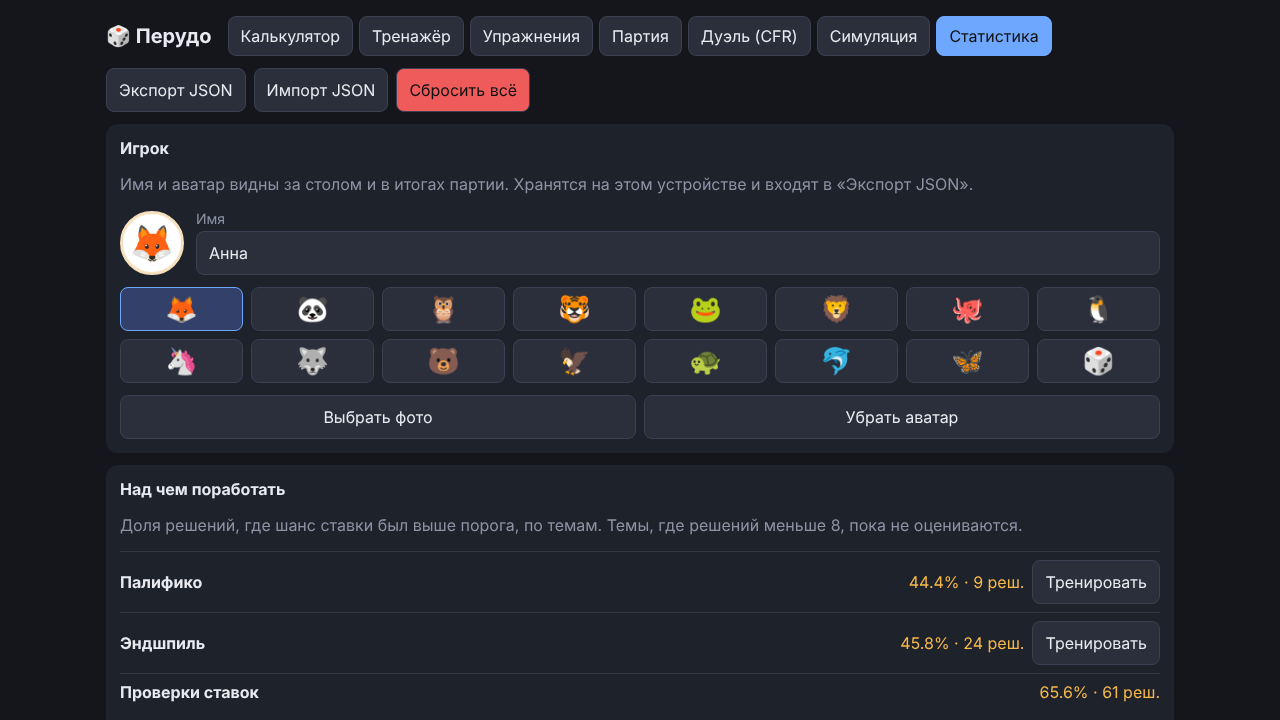
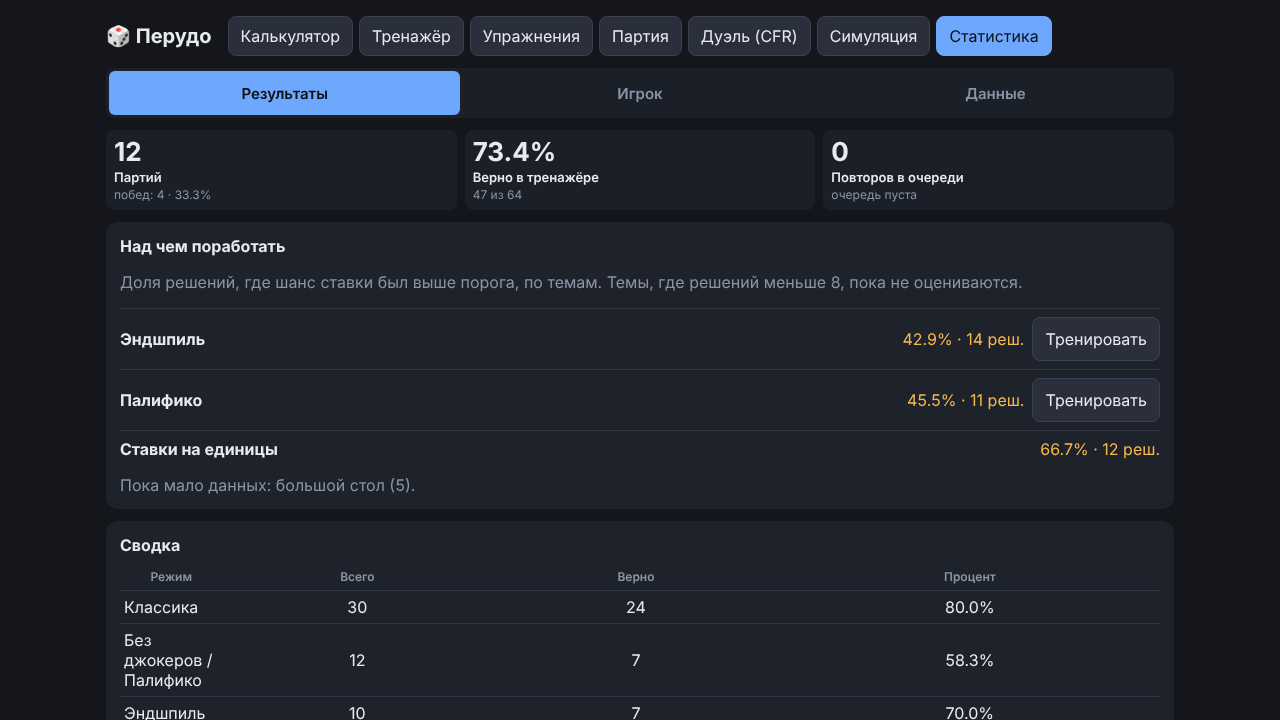
Документация и версия 2.3.0
README: подвкладки статистики, копия на Яндекс Диске (что и куда
пишется, гость или Яндекс, другое устройство, как удалить), проверка
ставок в тренажёре, учёт попыток в упражнениях, «Разбор» с двумя
числами, эмуляторы; дерево файлов и новые скриншоты статистики.
Тексты про выбор «гость / Яндекс» ведут во вкладку «Данные».
Тест статистики приведён к правилу «одна задача — одна запись».
Версия 2.3.0.

diff --git a/src/ui/cloud_card.js b/src/ui/cloud_card.js
@@ -309,7 +309,7 @@ async function copyDiag() {
 async function onAction(act) {
   if (act === 'later') {
     closeDialog();
-    say('Выбор можно сделать позже в «Статистике», блок «Игрок».');
+    say('Выбор можно сделать позже: «Статистика» → «Данные».');
     renderCloudCard();
     return;
   }
@@ -364,7 +364,7 @@ export function setupCloudCard({ downloadBackup } = {}) {
       setAccount('guest');
       renderWelcome();
       renderCloudCard();
-      toast('Вы играете как гость. Войти через Яндекс можно в «Статистике», блок «Игрок».', 'muted');
+      toast('Вы играете как гость. Войти через Яндекс можно в «Статистике», вкладка «Данные».', 'muted');
     } else if (e.target.closest('#clLogout')) {
       if (!confirm('Выйти из облака? Данные на этом устройстве и файл на Диске останутся.')) return;
       sync.logout();

diff --git a/tests/e2e/stats.spec.js b/tests/e2e/stats.spec.js
@@ -19,6 +19,8 @@ async function answerTrainer(page) {
 
 async function answerDrill(page) {
   await openTab(page, 'drill');
+  // после проверки кнопка недоступна до «Новое»: одна задача — одна запись
+  if (await page.locator('#dACheck').isDisabled()) await page.click('#dNew');
   await page.fill('#dA1', '5');
   await page.fill('#dA2', '5');
   await page.click('#dACheck');
@@ -57,7 +59,7 @@ test.describe('Статистика: разделы не затирают дру
     await openTab(page, 'train');
     await page.click('#tNext');
     await page.click('#tDudo');
-    await answerDrill(page);   // «Проверить» повторно: новый вопрос не нужен, ответ считается
+    await answerDrill(page);   // новая задача («Новое» нажимается внутри) — снова одна запись
 
     const p = await profile(page);
     expect(p.n).toBe(2);

diff --git a/index.html b/index.html
@@ -485,7 +485,7 @@
     <dialog id="clWelcome" class="cloud-dialog cloud-welcome" aria-labelledby="clWelcomeTitle">
       <div class="cloud-dialog-body">
         <h2 id="clWelcomeTitle">Как вы будете играть?</h2>
-        <p class="muted">Выбор можно изменить позже: «Статистика», блок «Игрок».</p>
+        <p class="muted">Выбор можно изменить позже: «Статистика» → «Данные».</p>
         <div class="cloud-choice">
           <div>
             <button type="button" id="clWelcomeLogin" class="btn-primary" autofocus>Войти через Яндекс</button>

diff --git a/README.md b/README.md
@@ -66,7 +66,7 @@
 | [**Партия**](#партия) | Полноценная игра против 1–5 компьютерных игроков с подсказками и разбором ходов |
 | [**Дуэль (CFR)**](#дуэль-cfr) | Игра один на один (по одному кубику) против бота с близкой к оптимальной стратегией. Стратегия рассчитывается в вашем браузере за секунды |
 | [**Симуляция**](#симуляция) | Проверка формул: компьютер бросает кубики тысячи раз и показывает, как часто ставка оказывается верной |
-| [**Статистика**](#статистика-и-ваши-данные) | Сколько решений вы приняли верно, сколько партий выиграли. Здесь же можно сохранить данные в файл или сбросить всё |
+| [**Статистика**](#статистика-и-ваши-данные) | Итоги, слабые темы и список партий; имя и аватар игрока; сохранность данных: копия на Яндекс Диске и в файле |
 
 ## Калькулятор
 
@@ -101,8 +101,10 @@
 
 1. Нажмите **«Новая ситуация»**.
 2. Посмотрите свои кубики и ставку соперника.
-3. Нажмите **«Не верю!»** или введите свою ставку и нажмите **«Ставлю»**.
+3. Нажмите **«Не верю!»** или выберите свою ставку и нажмите **«Ставлю»**. Поля ставки сразу заполнены минимальной допустимой ставкой.
 4. Прочитайте оценку: шанс, что ставка верна, и порог. Ниже — **варианты хода по шансу ставки**: «Не верю» (с каким шансом проверка сработает), минимальное повышение и самая сильная безопасная ставка; ваш выбор отмечен. Это сравнение по шансам, а не оценка выигрыша: оно не говорит, какой ход «лучший», а показывает цену каждого.
+
+**Ставка должна быть допустимой по правилам.** Если ставка не проходит (например, `6×4` после `4×1`: на другую цифру после единиц нужно не меньше `4×2 + 1 = 9`), приложение объясняет, какая ставка минимальна, не оценивает её, и в статистику она не попадает. В режиме «Без джокеров / Палифико» можно повышать только количество на ту же цифру. Если повысить уже нельзя, остаётся «Не верю!».
 
 **Режимы** выбираются по кнопке ⚙ вверху вкладки; рядом настраивается **порог** (по умолчанию 0,5):
 
@@ -136,7 +138,9 @@
 - **Оценка в уме.** Сколько кубиков с нужной цифрой ожидать на столе (число с дробью) и какая ставка «безопасна» (шанс не ниже 50%). Ожидание считается как *свои + чужие × шанс*, где шанс = 1/3 для обычной цифры и 1/6 для единиц. Безопасная ставка — ожидание, округлённое к ближайшему целому (ровно посередине — вниз): для 0–60 чужих кубиков это совпадает с точным расчётом, один и тот же приём работает и на большом, и на малом столе. В упражнении есть свёрнутая памятка «Как прикинуть в уме» с примером, а после ответа — разбор шагами с числами задачи.
 - **Правило единиц.** Какое минимальное количество нужно назвать при переходе на единицы (⌈q/2⌉) и обратно (2q + 1).
 
-Кнопка **«Новое»** выдаёт другой вопрос. Допуск при проверке ±1: это тренировка прикидки в уме, а не точного счёта.
+Кнопка **«Новое»** выдаёт другой вопрос. Допуск при проверке ±1: это тренировка прикидки в уме, а не точного счёта. Если ответ выше безопасного, он принимается по допуску, но разбор добавляет строку про шанс («принята по допуску, но шанс 38% — меньше 50%; безопасная — 6 (61%)»). Бывает, что безопасной ставки нет (мало чужих кубиков, ставка на единицы): тогда правильный ответ 0, и разбор так и говорит.
+
+**Что считается попыткой.** Одна задача — одна запись в статистике. Пустой, нечисловой или дробный ответ (где нужно целое число) не засчитывается: приложение просит ввести ответ. После проверки кнопка «Проверить» недоступна до нажатия «Новое».
 
 ![Упражнения](docs/img/drill-desktop.png)
 
@@ -166,6 +170,12 @@
 ![Итог партии: ключевые моменты](docs/img/key-moments-desktop.png)
 
 ![Итог партии на телефоне](docs/img/key-moments-phone.png)
+
+### Разбор ваших ходов
+
+На вкладке «Разбор» каждый ваш ход получает оценку по шансу ставки по вашим кубикам: чужие кубики считаются случайными. Порог — 50%: от 50% «Надёжная ставка», от 35% «Рискованная», ниже «Слабая».
+
+Если до вас в этом раунде называли ту же цифру, рядом показан **второй шанс — с учётом ставок за столом**: игрок, назвавший цифру, с большей вероятностью держит её на руках (доверие к ставке 0,2; значение зафиксировано в коде, `TABLE_TRUST`). Для первой ставки раунда и для цифр, которых никто не называл, числа совпадают, и показано одно. Ставка, которая слаба по вашим кубикам, но с учётом стола имеет шанс не ниже 35%, получает не красный крестик, а оценку «Рискованная ставка» с пояснением «соперники подтверждают цифру». Пороги 35% и 50% при этом не меняются, оценка «Не верю» считается по вашим кубикам.
 
 ### Настройки партии
 
@@ -277,30 +287,51 @@
 
 ## Статистика и ваши данные
 
-Вкладка **«Статистика»** собирает ваши результаты:
+Вкладка **«Статистика»** разделена на три части: **«Результаты»**, **«Игрок»** и **«Данные»**. Выбранная часть запоминается до закрытия страницы; переключаются мышью, касанием и стрелками ← →.
 
-- **сводка тренажёра:** сколько решений верно из скольких и сколько ситуаций ждёт повтора, с разбивкой по режимам;
-- **«Игрок»:** имя (до 20 символов) и аватар: эмодзи на выбор или своё фото (оно обрезается до квадрата и сжимается до нескольких килобайт прямо в браузере, на сервер не уходит). Имя и аватар видны за столом и в итогах партии вместо «Вы», меняются и посреди партии, входят в «Экспорт JSON»;
+**Результаты** (открываются по умолчанию):
+
+- **итоги крупно:** сколько партий сыграно (и побед), доля верных решений в тренажёре (сколько верно из скольких) и сколько ситуаций ждёт повтора. Пока данных мало, вместо процента стоит «мало данных»: процент по режиму считается от 8 решений, по партиям — от 5;
 - **«Над чем поработать»:** до трёх тем, где доля решений с шансом ставки выше порога самая низкая (эндшпиль, последний кубик, Палифико, единицы, большой стол, проверки, повышения). Рядом число решений; темы, где их меньше 8, пока не оцениваются и перечислены отдельно. У тем с подходящим режимом есть кнопка **«Тренировать»**: открывает тренажёр в этом режиме;
-- **партии:** сколько сыграно и выиграно, список последних партий (хранятся последние 200);
-- **«Экспорт JSON»** и **«Импорт JSON»** — полная копия данных и её восстановление (см. ниже);
-- **«Сбросить всё»** — стирает статистику, очередь повторов, статистику дуэли, память ботов и профиль игрока.
+- **сводка по режимам тренажёра** и **список партий**: одна строка на партию («19.10 · победа · 4 игрока · 19 раундов · 15 решений»), показаны последние 10, остальные по кнопке **«Показать все»** (всего хранится 200);
+- если играть ещё не начинали, вместо таблиц с нулями — подсказка и кнопки «Сыграть партию» и «Открыть тренажёр».
 
-![Статистика](docs/img/stats-desktop.png)
+**Игрок:** имя (до 20 символов) и аватар: эмодзи на выбор или своё фото (оно обрезается до квадрата и сжимается до нескольких килобайт прямо в браузере, на сервер не уходит). Выбор аватара свёрнут: видны имя и текущий аватар, сетка открывается по кнопке «Изменить». Имя и аватар видны за столом и в итогах партии вместо «Вы», меняются и посреди партии, входят в «Экспорт JSON».
+
+**Данные:** всё про сохранность — блок «Копия на Яндекс Диске», «Копия в файле» (экспорт и импорт JSON, см. ниже) и подсказка про защиту от автоочистки браузера. В самом низу, отдельно, стоит **«Сбросить всё»**: стирает статистику, очередь повторов, статистику дуэли, память ботов и профиль игрока (с подтверждением).
+
+![Статистика: результаты](docs/img/stats-desktop.png)
 
 ![Статистика на телефоне](docs/img/stats-phone.png)
 
+![Статистика: данные](docs/img/stats-data-desktop.png)
+
 *На скриншотах демонстрационные данные.*
+
+### Копия на Яндекс Диске
+
+При первом запуске приложение спрашивает, как вы будете играть:
+
+- **«Войти через Яндекс»:** копия ваших данных хранится на вашем Яндекс Диске. Она переживёт очистку браузера и поможет перенести данные на другое устройство;
+- **«Играть как гость»:** данные хранятся только в этом браузере, как раньше. Выбор можно сменить позже: «Статистика» → «Данные».
+
+Как это устроено:
+
+- **Что и куда пишется.** Один файл `perudo-backup.json` в личной папке приложения на вашем Диске: та же копия, что и «Экспорт JSON». Приложение получает право только на эту папку; остальные файлы Диска оно не видит. Данные не уходят ни на какой другой сервер: запросы идут из вашего браузера напрямую на Яндекс. Токен доступа хранится только на этом устройстве и в файл копии не входит.
+- **Когда пишется.** После каждой законченной партии (не чаще раза в 30 секунд) и по кнопке **«Сохранить сейчас»**.
+- **Другое устройство.** После входа с другого устройства приложение сравнивает версии. Если на этом устройстве ничего не менялось, а в облаке копия новее, данные обновляются сами. Если версии разошлись, вы выбираете, какую оставить. Данные не теряются без вашего подтверждения.
+- **Если связь не работает.** Кнопка **«Диагностика связи»** собирает короткий отчёт (без токена и без ваших данных), его можно скопировать и отправить в Issues.
+- **Выйти и удалить.** Кнопка **«Выйти»** убирает вход на этом устройстве: данные на устройстве и файл на Диске остаются. Чтобы удалить копию совсем, удалите файл `perudo-backup.json` из папки приложения на Диске; доступ приложения можно отозвать в настройках вашего аккаунта Яндекса.
 
 ### Где хранятся данные
 
-- Статистика, история партий, настройки, память ботов о вашей игре, имя и аватар игрока и записи ваших решений в партиях (счётчики по типам ситуаций и до трёх самых важных моментов каждой законченной партии, всего не больше 50) хранятся **только в вашем браузере**. Приложение ничего не отправляет на сервер и не требует аккаунта.
+- Статистика, история партий, настройки, память ботов о вашей игре, имя и аватар игрока и записи ваших решений в партиях (счётчики по типам ситуаций и до трёх самых важных моментов каждой законченной партии, всего не больше 50) хранятся **только в вашем браузере**. Если вы играете как гость, приложение ничего никуда не отправляет и не требует аккаунта; при входе через Яндекс копия данных дополнительно записывается на ваш Диск (см. выше).
 - Если открыть приложение в **другом браузере**, на другом устройстве или в режиме инкогнито, статистики там не будет. Если очистить данные сайтов в настройках браузера, она тоже пропадёт.
-- **Сохранить копию:** вкладка «Статистика» → **«Экспорт JSON»**. Получится файл `perudo-backup-ГГГГ-ММ-ДД.json` со всеми данными: статистикой тренажёра, очередью повторов, историей партий и разборами, статистикой дуэли, настройками, профилем, прогрессом обучения, характерами и памятью ботов.
-- **Защита от автоочистки.** После первой и после пятой партии приложение просит браузер не удалять данные сайта само (`navigator.storage.persist()`); решает браузер, а во вкладке «Статистика» показано, защищено ли хранилище. Это не защита от ручной очистки: копия в файле остаётся главным способом сохранить данные.
+- **Сохранить копию в файл:** «Статистика» → «Данные» → **«Экспорт JSON»**. Получится файл `perudo-backup-ГГГГ-ММ-ДД.json` со всеми данными: статистикой тренажёра, очередью повторов, историей партий и разборами, статистикой дуэли, настройками, профилем, прогрессом обучения, характерами и памятью ботов.
+- **Защита от автоочистки.** После первой и после пятой партии приложение просит браузер не удалять данные сайта само (`navigator.storage.persist()`); решает браузер, а во вкладке «Статистика» → «Данные» показано, защищено ли хранилище. Это не защита от ручной очистки: копия в файле остаётся главным способом сохранить данные.
 - **Напоминание.** После пятой партии в итоге партии появляется предложение сохранить копию; «Позже» откладывает его ещё на 20 партий, после экспорта оно молчит 30 партий. Когда напоминать, хранится отдельно (ключ `perudo.device`) и в копию JSON не входит.
-- **Восстановить копию:** «Статистика» → **«Импорт JSON»** → выберите файл. Приложение проверит файл и спросит подтверждение: текущие данные **заменяются** данными из копии, после чего страница перезагружается. Если файл чужой, повреждён или сделан более новой версией, будет понятное сообщение, а ваши данные не изменятся. Файлы старого формата (версия 1) тоже читаются.
-- **Начать с нуля:** вкладка «Статистика» → **«Сбросить всё»** (память ботов и записи решений тоже очищаются). Забыть только вашу игру можно кнопкой в настройках партии.
+- **Восстановить копию из файла:** «Статистика» → «Данные» → **«Импорт JSON»** → выберите файл. Приложение проверит файл и спросит подтверждение: текущие данные **заменяются** данными из копии, после чего страница перезагружается. Если файл чужой, повреждён или сделан более новой версией, будет понятное сообщение, а ваши данные не изменятся. Файлы старого формата (версия 1) тоже читаются.
+- **Начать с нуля:** «Статистика» → «Данные» → **«Сбросить всё»** (память ботов и записи решений тоже очищаются). Забыть только вашу игру можно кнопкой в настройках партии.
 
 ## Частые вопросы
 
@@ -385,7 +416,7 @@ LICENSE              лицензия MIT
 README.md            это описание (GitHub показывает его на главной странице)
 src/
 ├── app_v2.js        точка входа: запуск вкладок и ядро партии (ход игры, стол, ход бота)
-├── ui/              части интерфейса: common.js (помощники), modes.js (режимы тренажёра), tabs.js (разделы и ☰), calculator.js, trainer.js, drill.js, duel.js, sim.js, stats.js (вкладки), side_panel.js (панель партии), bot_styles.js и bot_mind.js (настройки ботов), reveal_dialog.js и result_dialog.js (окна партии), decisions.js (запись решений), key_moments.js (итог: ключевые моменты), options_view.js (список вариантов хода), weak_spots.js (блок «Над чем поработать»), player_card.js (блок «Игрок»), backup_reminder.js (напоминание о копии в итоге партии)
+├── ui/              части интерфейса: common.js (помощники), modes.js (режимы тренажёра), tabs.js (разделы и ☰), calculator.js, trainer.js, drill.js, duel.js, sim.js, stats.js (вкладки), side_panel.js (панель партии), bot_styles.js и bot_mind.js (настройки ботов), reveal_dialog.js и result_dialog.js (окна партии), decisions.js (запись решений), key_moments.js (итог: ключевые моменты), options_view.js (список вариантов хода), weak_spots.js (блок «Над чем поработать»), player_card.js (блок «Игрок»), stats_tabs.js (подвкладки статистики), cloud_card.js (блок «Копия на Яндекс Диске»), backup_reminder.js (напоминание о копии в итоге партии)
 ├── core.js          вероятности, симуляция, решатель CFR (классический скрипт, глобальный Perudo)
 ├── rules.js         правила ставок: legal(), minLegal()          ← чистая логика
 ├── engine.js        игровой движок без привязки к интерфейсу     ← чистая логика
@@ -403,6 +434,17 @@ src/
 ├── avatar_photo.js  обрезка и сжатие фото аватара (расчёты)     ← чистая логика
 ├── player.js        профиль игрока: имя и аватар, проверка данных  ← чистая логика
 ├── weak_spots.js    слабые темы по счётчикам решений               ← чистая логика
+├── stats_summary.js итоги статистики: проценты, «мало данных», пустое состояние ← чистая логика
+├── stats_tabs.js    подвкладки статистики: выбор и клавиши          ← чистая логика
+├── games_list.js    строки списка партий                          ← чистая логика
+├── trainer_rules.js проверка ставки в тренажёре по правилам          ← чистая логика
+├── drill_rule.js    правило «ожидание → безопасная ставка»           ← чистая логика
+├── drill_input.js   разбор ответов в упражнениях                    ← чистая логика
+├── drill_note.js    пояснения к ответу в «Оценке в уме»             ← чистая логика
+├── table_read.js    шанс с учётом ставок за столом для «Разбора»     ← чистая логика
+├── backup.js        формат и проверка резервной копии              ← чистая логика
+├── cloud_sync.js    запись и восстановление копии в облаке        ← чистая логика (fetch передаётся)
+├── cloud_diag.js    отчёт «Диагностика связи» (без токена)         ← чистая логика
 ├── reveal.js        модель окна вскрытия кубиков                 ← чистая логика
 ├── table.js         отрисовка стола и мест игроков (строки HTML)
 ├── storage.js       localStorage с версией схемы
